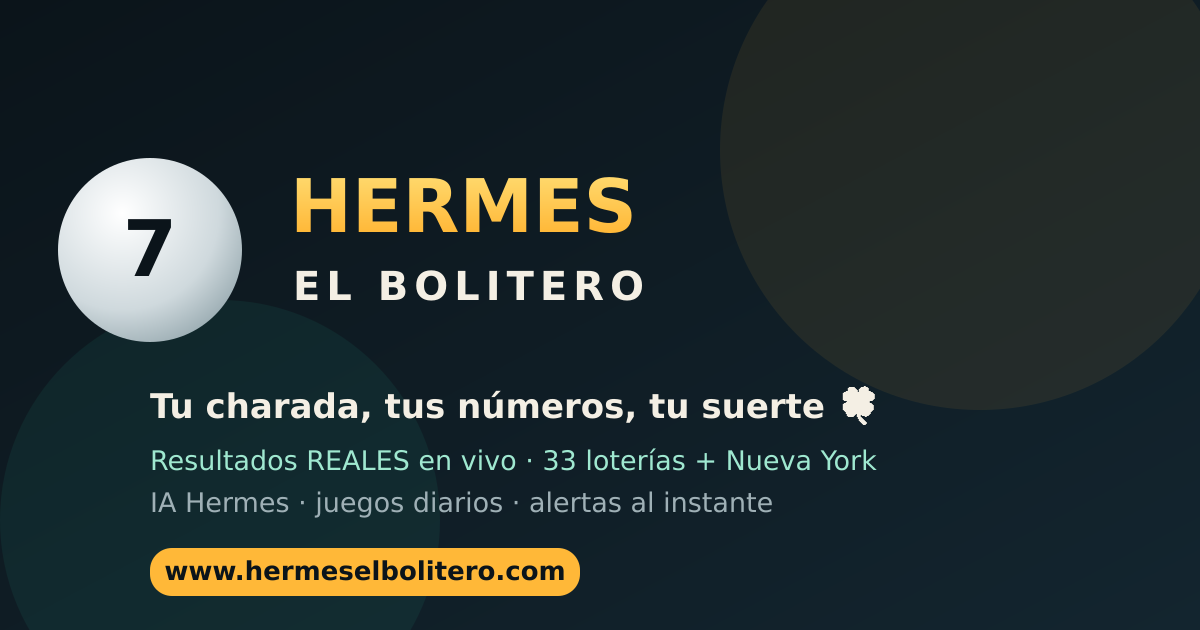
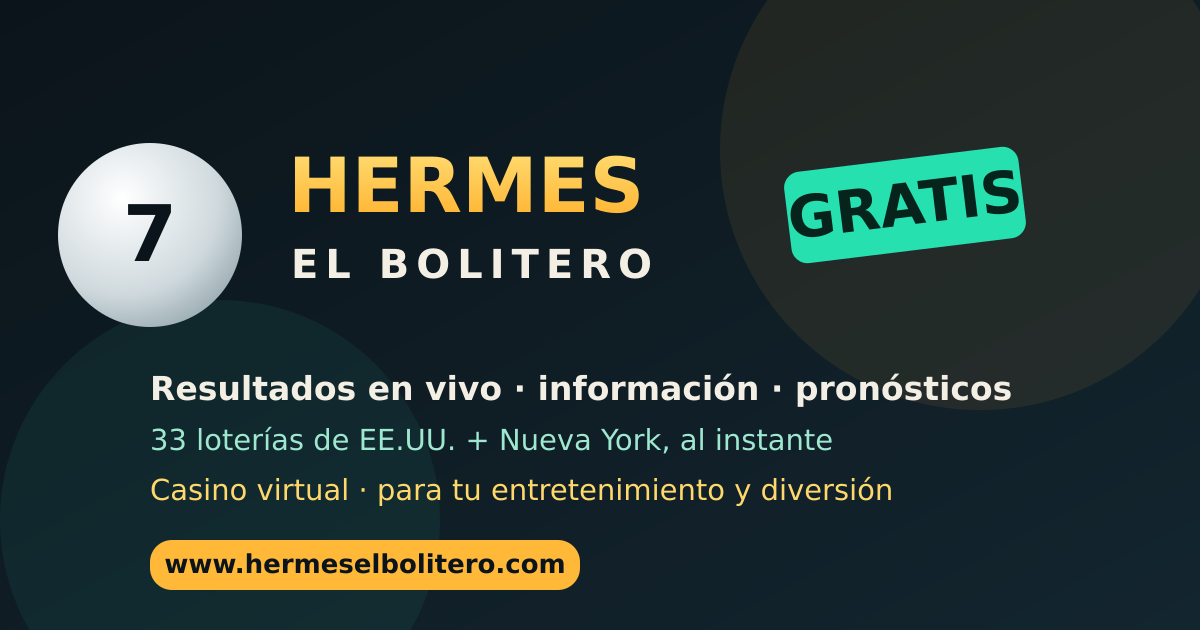
growth: reposition social card — GRATIS, info/pronósticos, casino virtual
Owner-directed messaging change: drop any AI mention; lead with FREE (GRATIS),
information & forecasts (pronósticos), and a virtual casino for entertainment
and fun. Regenerates og-image.png with a green GRATIS badge and updates all
OG/Twitter/<title>/<description> copy to match. No app behavior change.

diff --git a/index.html b/index.html
@@ -4,23 +4,23 @@
 <meta charset="UTF-8"/>
 <meta name="viewport" content="width=device-width, initial-scale=1.0, viewport-fit=cover"/>
 <meta name="theme-color" content="#0B141A"/>
-<title>HERMES EL BOLITERO — tu charada, tus números, tu suerte</title>
-<meta name="description" content="Resultados REALES en vivo de 33 loterías de EE.UU. + Nueva York, charada con IA, juegos diarios y alertas al instante. ¡Juega gratis! Real live US lottery results, AI charada, daily games."/>
+<title>HERMES EL BOLITERO — GRATIS · resultados, información y pronósticos</title>
+<meta name="description" content="GRATIS. Resultados en vivo e información de 33 loterías de EE.UU. + Nueva York, pronósticos, y un casino virtual para tu entretenimiento y diversión. Free live US lottery results, info, forecasts and a virtual casino for fun."/>
 <!-- Open Graph / link previews (Telegram, WhatsApp, Facebook, iMessage, Discord) -->
 <meta property="og:type" content="website"/>
 <meta property="og:site_name" content="HERMES EL BOLITERO"/>
-<meta property="og:title" content="HERMES EL BOLITERO — tu charada, tus números, tu suerte"/>
-<meta property="og:description" content="Resultados REALES en vivo · 33 loterías + Nueva York · charada con IA · juegos diarios · alertas al instante. ¡Juega gratis!"/>
+<meta property="og:title" content="HERMES EL BOLITERO — GRATIS · resultados, información y pronósticos"/>
+<meta property="og:description" content="GRATIS · Resultados en vivo · información · pronósticos · 33 loterías + Nueva York · y un casino virtual para tu entretenimiento y diversión."/>
 <meta property="og:url" content="https://www.hermeselbolitero.com/"/>
 <meta property="og:image" content="https://www.hermeselbolitero.com/og-image.png"/>
 <meta property="og:image:width" content="1200"/>
 <meta property="og:image:height" content="630"/>
-<meta property="og:image:alt" content="HERMES EL BOLITERO — resultados reales de lotería y charada"/>
+<meta property="og:image:alt" content="HERMES EL BOLITERO — GRATIS · resultados, información y pronósticos de lotería + casino virtual"/>
 <meta property="og:locale" content="es_ES"/>
 <meta property="og:locale:alternate" content="en_US"/>
 <meta name="twitter:card" content="summary_large_image"/>
-<meta name="twitter:title" content="HERMES EL BOLITERO — tu charada, tus números, tu suerte"/>
-<meta name="twitter:description" content="Resultados REALES en vivo · 33 loterías + Nueva York · charada con IA · juegos diarios · alertas. ¡Juega gratis!"/>
+<meta name="twitter:title" content="HERMES EL BOLITERO — GRATIS · resultados, información y pronósticos"/>
+<meta name="twitter:description" content="GRATIS · Resultados en vivo · información · pronósticos · 33 loterías + Nueva York · casino virtual para tu entretenimiento y diversión."/>
 <meta name="twitter:image" content="https://www.hermeselbolitero.com/og-image.png"/>
 <link rel="icon" type="image/png" href="/favicon.png"/>
 <link rel="apple-touch-icon" href="/apple-touch-icon.png"/>
